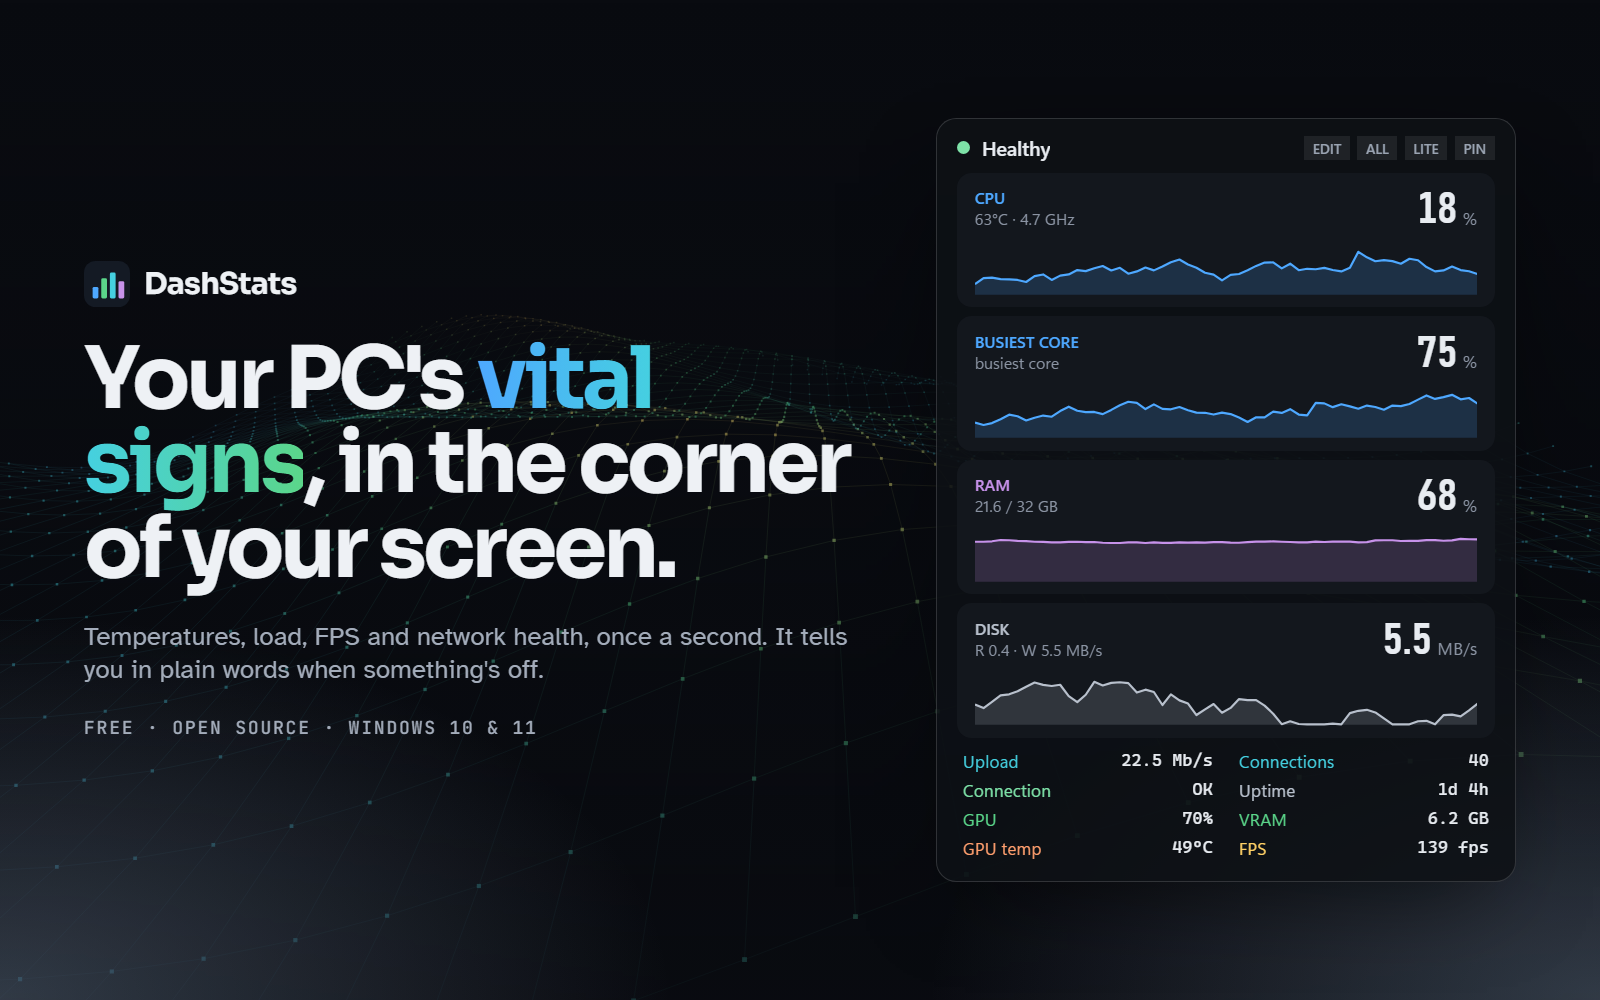
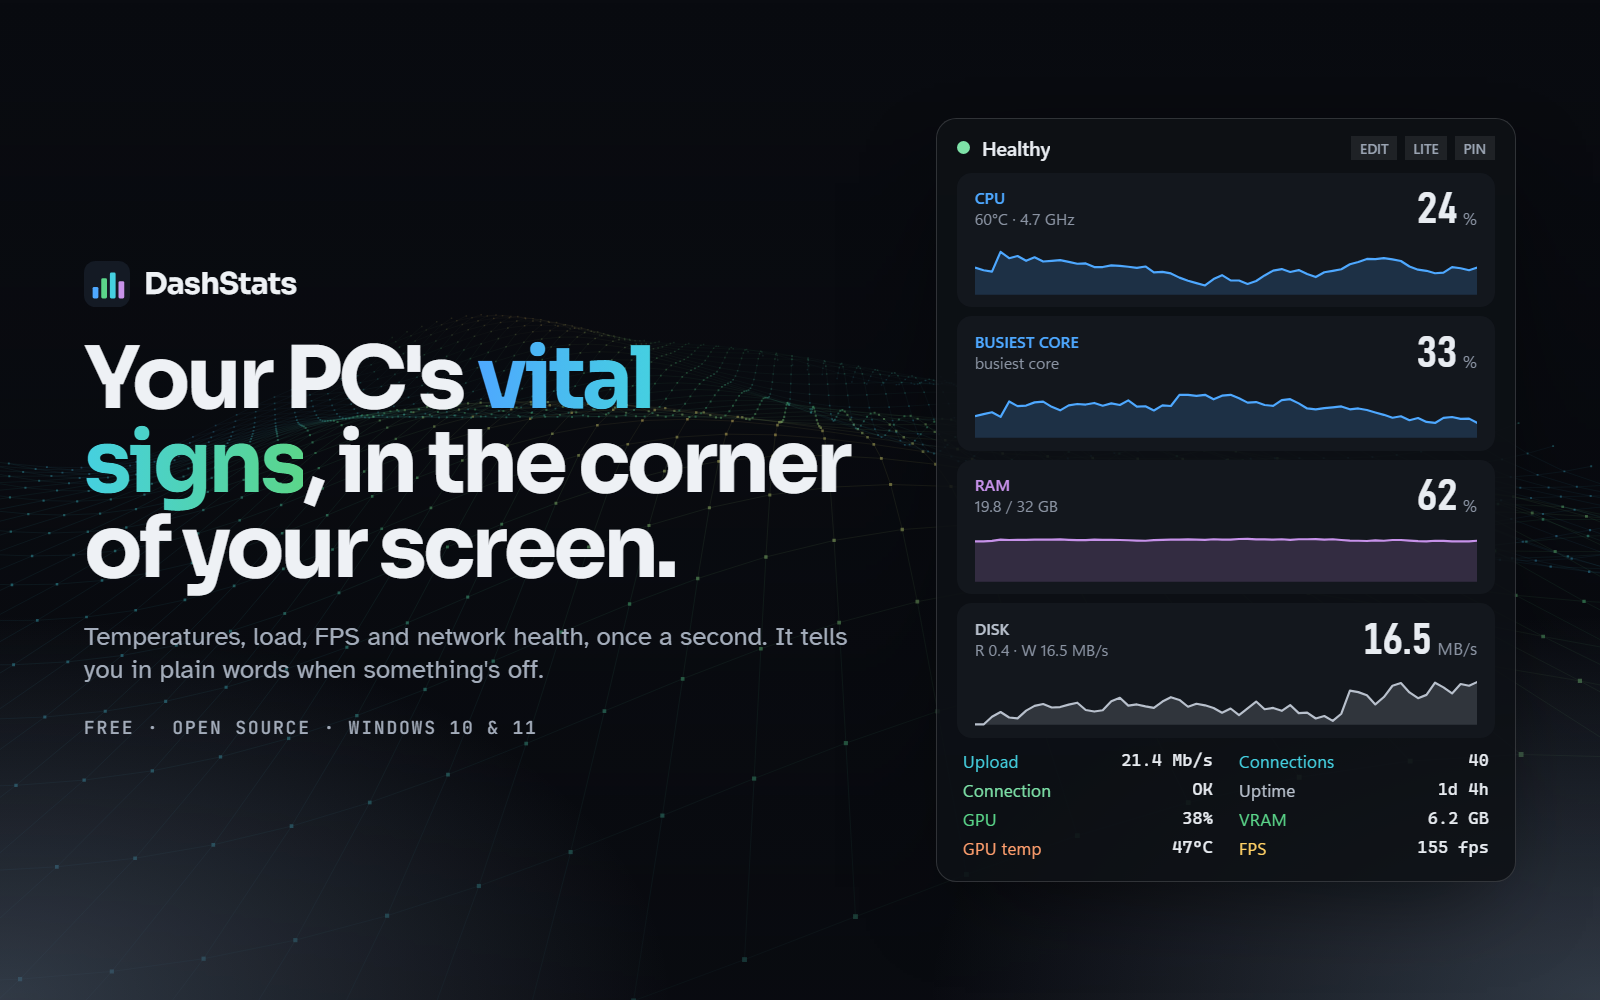
Menus: Unpin widget at the top when pinned, pin notification, Settings submenu; remove the 'every reading' view

diff --git a/src/DashStats/MainWindow.xaml b/src/DashStats/MainWindow.xaml
@@ -38,14 +38,11 @@
                     <TextBlock x:Name="EditBtn" Text="EDIT" Style="{StaticResource HeaderBtn}"
                                ToolTip="Change what you monitor and how it looks"
                                MouseLeftButtonDown="EditBtn_Down" />
-                    <TextBlock x:Name="AllBtn" Text="ALL" Style="{StaticResource HeaderBtn}"
-                               ToolTip="Switch between your chosen stats and every reading"
-                               MouseLeftButtonDown="AllBtn_Down" />
                     <TextBlock x:Name="ViewBtn" Text="LITE" Style="{StaticResource HeaderBtn}"
                                ToolTip="Main stats only (Ctrl+Alt+L)"
                                MouseLeftButtonDown="ViewBtn_Down" />
                     <TextBlock x:Name="PinBtn" Text="PIN" Style="{StaticResource HeaderBtn}"
-                               ToolTip="Show above every window, click-through (Ctrl+Alt+M to undo)"
+                               ToolTip="Pin above every window, click-through. Unpin with Ctrl+Alt+M or the tray icon."
                                MouseLeftButtonDown="PinBtn_Down" />
                 </StackPanel>
             </Grid>

diff --git a/docs/index.html b/docs/index.html
@@ -572,7 +572,7 @@ footer a { color: var(--soft); }
     }
     const head = el('div', 'w-head');
     head.appendChild(add(el('div', 'w-status'), el('div', 'w-dot', null, { background: LEVEL[level] }), el('div', 'w-stext', status)));
-    if (!overlay) { const b = el('div', 'w-btns'); for (const t of ['EDIT', 'ALL', view, 'PIN']) b.appendChild(el('div', 'w-btn', t)); head.appendChild(b); }
+    if (!overlay) { const b = el('div', 'w-btns'); for (const t of ['EDIT', view, 'PIN']) b.appendChild(el('div', 'w-btn', t)); head.appendChild(b); }
     if (body) return add(w, head, body);
     head.style.marginBottom = '0';
     return add(w, head);

diff --git a/src/DashStats/MainWindow.xaml.cs b/src/DashStats/MainWindow.xaml.cs
@@ -267,8 +267,6 @@ public partial class MainWindow : Window
         Body.Visibility = list ? Visibility.Visible : Visibility.Collapsed;
         LookHost.Visibility = list ? Visibility.Collapsed : Visibility.Visible;
         ViewBtn.Text = S.Lite ? "FULL" : "LITE";
-        AllBtn.Text = S.ShowAll ? "MINE" : "ALL";
-        AllBtn.Visibility = S.Uses.Count > 0 ? Visibility.Visible : Visibility.Collapsed;
         UpdateVisibility();
         Reposition();
     }
@@ -279,7 +277,7 @@ public partial class MainWindow : Window
     WidgetView? _view;
 
     /// <summary>The raw list of every reading: when asked for, or before setup has picked anything.</summary>
-    bool ShowingList => S.ShowAll || S.Uses.Count == 0;
+    bool ShowingList => S.Uses.Count == 0;
 
     public void RebuildView()
     {
@@ -363,30 +361,16 @@ public partial class MainWindow : Window
     void ViewBtn_Down(object sender, MouseButtonEventArgs e) { e.Handled = true; _ctl.ToggleLite(); }
     void PinBtn_Down(object sender, MouseButtonEventArgs e) { e.Handled = true; _ctl.ToggleOverlay(); }
     void EditBtn_Down(object sender, MouseButtonEventArgs e) { e.Handled = true; _ctl.OpenSetup(); }
-    void AllBtn_Down(object sender, MouseButtonEventArgs e) { e.Handled = true; _ctl.ToggleShowAll(); }
 
     protected override void OnMouseRightButtonUp(MouseButtonEventArgs e)
     {
         base.OnMouseRightButtonUp(e);
         e.Handled = true;
 
-        RowUi? row = null;
-        for (var d = e.OriginalSource as DependencyObject; d is not null && row is null; d = VisualTreeHelper.GetParent(d))
-            row = (d as FrameworkElement)?.Tag as RowUi;
-
         var m = new ContextMenu();
-        if (row is not null)
-        {
-            string name = string.IsNullOrWhiteSpace(row.Data.Label) ? row.Data.Key : row.Data.Label.Trim();
-            m.Items.Add(Item($"Hide \"{name}\"", () => _ctl.HideRow(row.Data.Key)));
-        }
-        if (S.Hidden.Count > 0) m.Items.Add(Item($"Show hidden rows ({S.Hidden.Count})", _ctl.ShowAllRows));
-        if (m.Items.Count > 0) m.Items.Add(new Separator());
-
         m.Items.Add(Item("Change what I monitor…", _ctl.OpenSetup));
-        if (S.Uses.Count > 0) m.Items.Add(Item("Show every reading", _ctl.ToggleShowAll, S.ShowAll));
         m.Items.Add(Item("Lite view", _ctl.ToggleLite, S.Lite, "Ctrl+Alt+L"));
-        m.Items.Add(Item("Overlay on top", _ctl.ToggleOverlay, S.Overlay, "Ctrl+Alt+M"));
+        m.Items.Add(Item("Pin on top", _ctl.ToggleOverlay, S.Overlay, "Ctrl+Alt+M"));
         var see = new MenuItem { Header = "Overlay transparency" };
         foreach (var t in Controller.TransparencySteps)
             see.Items.Add(Item(Controller.TransparencyName(t), () => _ctl.SetOverlayTransparency(t), S.OverlayTransparency == t));
@@ -395,7 +379,15 @@ public partial class MainWindow : Window
         foreach (var (code, cname) in Controller.Corners)
             pos.Items.Add(Item(cname, () => _ctl.SetCorner(code), S.Corner == code));
         m.Items.Add(pos);
-        m.Items.Add(Item("Start with Windows", _ctl.ToggleStartup, S.StartWithWindows));
+        m.Items.Add(new Separator());
+        m.Items.Add(Item($"Check for updates… (v{Updater.CurrentText})", _ctl.CheckForUpdatesNow));
+        var settings = new MenuItem { Header = "Settings" };
+        settings.Items.Add(Item("Start with Windows", _ctl.ToggleStartup, S.StartWithWindows));
+        settings.Items.Add(Item("Check for updates automatically", _ctl.ToggleAutoUpdate, S.CheckForUpdates));
+        settings.Items.Add(Item("Open settings folder", _ctl.OpenDataFolder));
+        settings.Items.Add(new Separator());
+        settings.Items.Add(Item("Uninstall…", _ctl.Uninstall));
+        m.Items.Add(settings);
         m.Items.Add(new Separator());
         m.Items.Add(Item("Hide widget", _ctl.ToggleVisible, null, "Ctrl+Alt+H"));
         m.Items.Add(Item("Exit", _ctl.Exit));

diff --git a/src/DashStats/Tray.cs b/src/DashStats/Tray.cs
@@ -32,13 +32,17 @@ sealed class Tray : IDisposable
     {
         var s = _c.S;
         _menu.Items.Clear();
-        _menu.Items.Add(_c.Win?.IsVisible == false ? "Show widget" : "Hide widget", null, (_, _) => _c.ToggleVisible())
-             .Font = new Drawing.Font(_menu.Font, Drawing.FontStyle.Bold);
+        var bold = new Drawing.Font(_menu.Font, Drawing.FontStyle.Bold);
+        // Pinned, the widget ignores clicks, so the way back has to be the first thing here.
+        if (s.Overlay)
+            _menu.Items.Add(new Forms.ToolStripMenuItem("Unpin widget", null, (_, _) => _c.ToggleOverlay())
+                { Font = bold, ShortcutKeyDisplayString = "Ctrl+Alt+M" });
+        var hide = _menu.Items.Add(_c.Win?.IsVisible == false ? "Show widget" : "Hide widget", null, (_, _) => _c.ToggleVisible());
+        if (!s.Overlay) hide.Font = bold;
         _menu.Items.Add(new Forms.ToolStripSeparator());
         _menu.Items.Add("Change what I monitor…", null, (_, _) => _c.OpenSetup());
-        if (s.Uses.Count > 0) Check("Show every reading", null, s.ShowAll, _c.ToggleShowAll);
         Check("Lite view", "Ctrl+Alt+L", s.Lite, _c.ToggleLite);
-        Check("Overlay on top", "Ctrl+Alt+M", s.Overlay, _c.ToggleOverlay);
+        if (!s.Overlay) Check("Pin on top", "Ctrl+Alt+M", false, _c.ToggleOverlay);
 
         var see = new Forms.ToolStripMenuItem("Overlay transparency");
         foreach (var t in Controller.TransparencySteps)
@@ -51,18 +55,23 @@ sealed class Tray : IDisposable
             pos.DropDownItems.Add(new Forms.ToolStripMenuItem(name, null, (_, _) => _c.SetCorner(code)) { Checked = s.Corner == code });
         _menu.Items.Add(pos);
 
-        var restore = new Forms.ToolStripMenuItem($"Show hidden rows ({s.Hidden.Count})", null, (_, _) => _c.ShowAllRows())
-            { Enabled = s.Hidden.Count > 0 };
-        _menu.Items.Add(restore);
         _menu.Items.Add(new Forms.ToolStripSeparator());
-        Check("Start with Windows", null, s.StartWithWindows, _c.ToggleStartup);
         _menu.Items.Add($"Check for updates… (v{Updater.CurrentText})", null, (_, _) => _c.CheckForUpdatesNow());
-        Check("Check for updates automatically", null, s.CheckForUpdates, _c.ToggleAutoUpdate);
-        _menu.Items.Add("Open settings folder", null, (_, _) => _c.OpenDataFolder());
-        _menu.Items.Add("Uninstall…", null, (_, _) => _c.Uninstall());
+
+        // Set once, rarely touched.
+        var settings = new Forms.ToolStripMenuItem("Settings");
+        settings.DropDownItems.Add(new Forms.ToolStripMenuItem("Start with Windows", null, (_, _) => _c.ToggleStartup()) { Checked = s.StartWithWindows });
+        settings.DropDownItems.Add(new Forms.ToolStripMenuItem("Check for updates automatically", null, (_, _) => _c.ToggleAutoUpdate()) { Checked = s.CheckForUpdates });
+        settings.DropDownItems.Add(new Forms.ToolStripMenuItem("Open settings folder", null, (_, _) => _c.OpenDataFolder()));
+        settings.DropDownItems.Add(new Forms.ToolStripSeparator());
+        settings.DropDownItems.Add(new Forms.ToolStripMenuItem("Uninstall…", null, (_, _) => _c.Uninstall()));
+        _menu.Items.Add(settings);
         _menu.Items.Add(new Forms.ToolStripSeparator());
         _menu.Items.Add("Exit", null, (_, _) => _c.Exit());
     }
+
+    /// <summary>A Windows notification from the tray icon.</summary>
+    public void Tip(string title, string text) => _icon.ShowBalloonTip(6000, title, text, Forms.ToolTipIcon.Info);
 
     void Check(string text, string? keys, bool on, Action act) =>
         _menu.Items.Add(new Forms.ToolStripMenuItem(text, null, (_, _) => act()) { Checked = on, ShortcutKeyDisplayString = keys });

diff --git a/src/DashStats/Controller.cs b/src/DashStats/Controller.cs
@@ -8,6 +8,8 @@ public sealed class Controller(Settings s)
 {
     public Settings S { get; } = s;
     public MainWindow Win { get; set; } = null!;
+    /// <summary>Shows a Windows notification (set by App to the tray icon's).</summary>
+    public Action<string, string>? Notify { get; set; }
 
     public static readonly (string Code, string Name)[] Corners =
         [("TL", "Top left"), ("TR", "Top right"), ("BL", "Bottom left"), ("BR", "Bottom right")];
@@ -70,7 +72,6 @@ public sealed class Controller(Settings s)
         S.Uses = uses.ToList();
         S.MainUse = main;
         S.Look = look;
-        S.ShowAll = false;
         S.Save();
         Win.RebuildView();
         Win.ApplyMode();
@@ -86,13 +87,6 @@ public sealed class Controller(Settings s)
         Win.ApplyMode();
     }
 
-    public void ToggleShowAll()
-    {
-        S.ShowAll = !S.ShowAll;
-        S.Save();
-        Win.ApplyMode();
-    }
-
     public void ToggleOverlay()
     {
         S.Overlay = !S.Overlay;
@@ -100,6 +94,9 @@ public sealed class Controller(Settings s)
         if (!Win.IsVisible) Win.Show();
         Win.RebuildView(); // tiles and panels fade with the overlay transparency
         Win.ApplyMode();
+        if (S.Overlay)
+            Notify?.Invoke("DashStats is pinned on top",
+                "Clicks pass through it. To unpin, press Ctrl+Alt+M or right-click the tray icon → Unpin widget.");
     }
 
     public static readonly int[] TransparencySteps = [0, 20, 40, 60, 80, 100];
@@ -139,20 +136,6 @@ public sealed class Controller(Settings s)
         S.MarginX = S.MarginY = 16;
         S.Save();
         Win.Reposition();
-    }
-
-    public void HideRow(string key)
-    {
-        S.Hidden.Add(key);
-        S.Save();
-        Win.UpdateVisibility();
-    }
-
-    public void ShowAllRows()
-    {
-        S.Hidden.Clear();
-        S.Save();
-        Win.UpdateVisibility();
     }
 
     public void ToggleStartup()

diff --git a/src/DashStats/App.xaml.cs b/src/DashStats/App.xaml.cs
@@ -53,6 +53,7 @@ public partial class App : Application
         ctl.Win = win;
         win.Show();
         _tray = new Tray(ctl);
+        ctl.Notify = _tray.Tip;
 
         _collector = new Collector(s);
         _collector.Updated += (rows, metrics) => Dispatcher.BeginInvoke(DispatcherPriority.Background, () => ctl.OnTick(rows, metrics));

diff --git a/README.md b/README.md
@@ -24,12 +24,10 @@ Exit the running one from the tray icon first.
 | Action | How |
 |---|---|
 | Choose what to monitor and the look | **EDIT** in the widget header, or tray → *Change what I monitor…* |
-| Every reading vs. your picks | **ALL** / **MINE** in the header |
-| Pin on top of everything, click-through | `Ctrl+Alt+M` or the **PIN ON TOP** button |
+| Pin on top of everything, click-through | `Ctrl+Alt+M` or the **PIN** button. Unpin with `Ctrl+Alt+M` or tray → **Unpin widget** |
 | Full / lite view | `Ctrl+Alt+L` or the **LITE** button |
 | Hide / show | `Ctrl+Alt+H` or left-click the tray icon |
 | Move | Drag it. It snaps to the nearest corner. |
-| Prune a row | Right-click it → **Hide** (the tray menu brings hidden rows back) |
 
 ## Build
 
